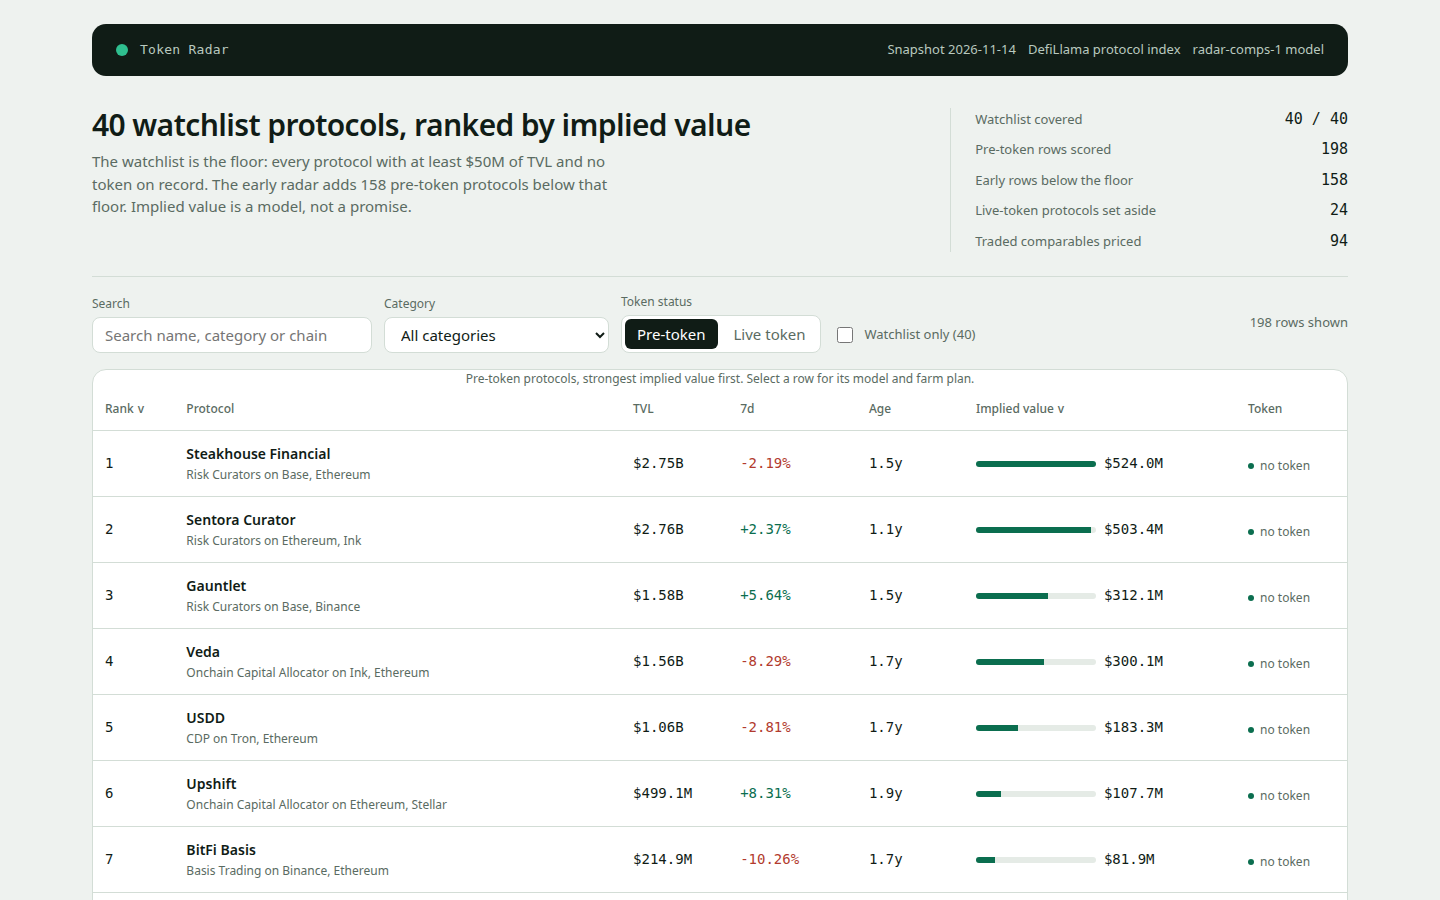
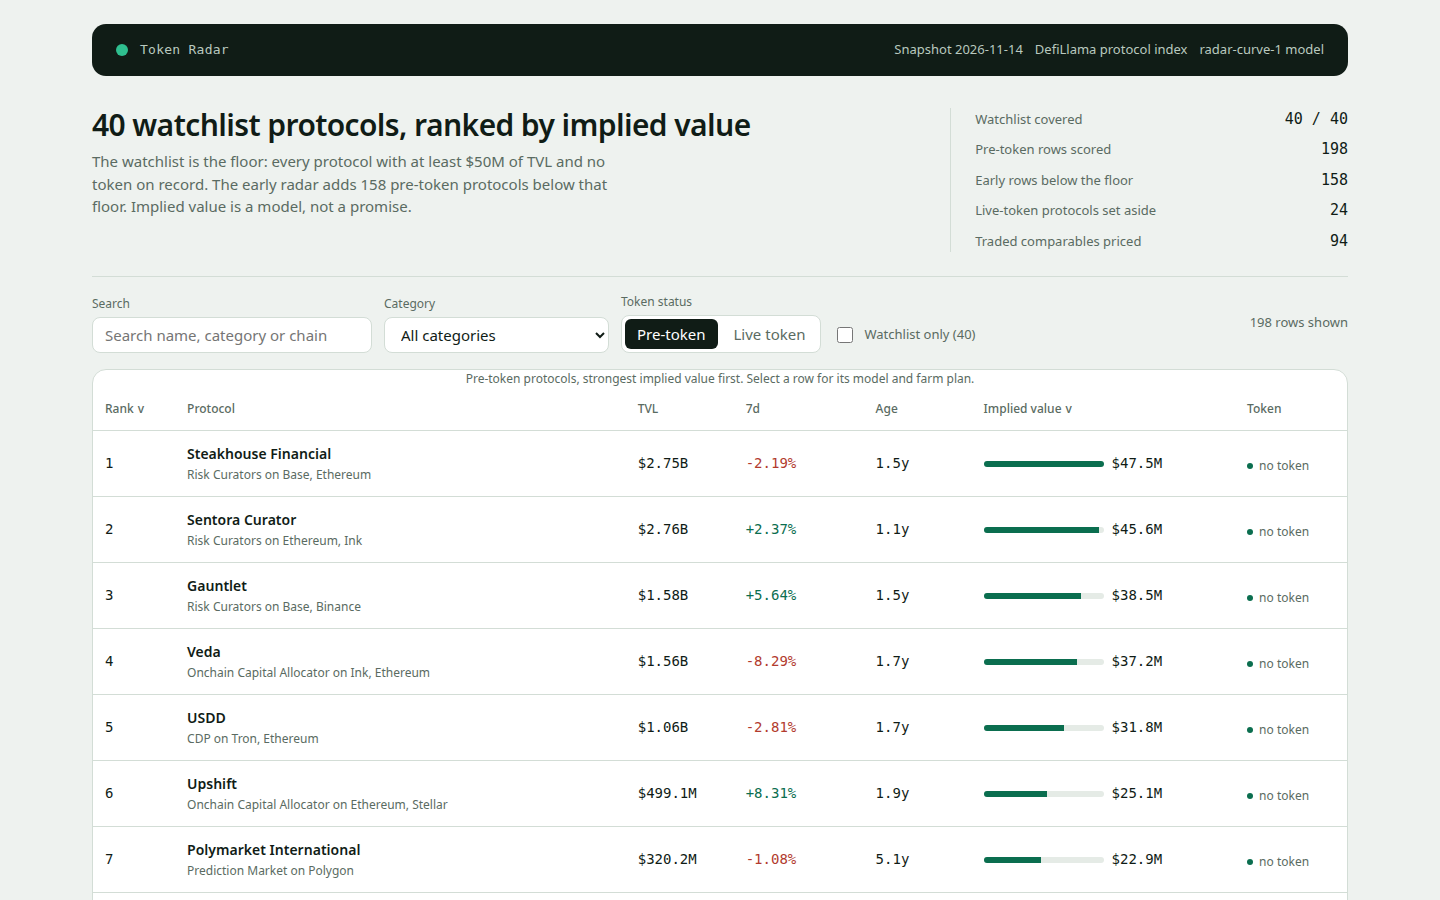
Model variant C: fitted size curve (radar-curve-1), tested blind

diff --git a/lib/model.ts b/lib/model.ts
@@ -6,19 +6,26 @@
 // snapshot's live-token protocols are kept apart and shown as the market's own values, never mixed
 // into the ranked board.
 //
-// Implied value is priced off the snapshot's own traded protocols, not a magic multiple. For each
-// category, the comparables are the protocols that already trade (a market cap on record) and their
-// median market-cap-to-TVL ratio is the category's price. A thin category (fewer than three traded
-// peers) cannot move the ratio on its own: it is shrunk toward the market-wide median, and a
-// category with no traded peers at all uses the market median outright. Growth and age then adjust
+// Implied value is priced off the snapshot's own traded protocols, not a magic multiple and not a
+// category median. The traded protocols are fitted with one size curve, an ordinary least-squares
+// line of log market cap on log TVL, after Tukey-cleaning the log market-cap-to-TVL ratios (1.5 x
+// IQR fences): a dollar of TVL is worth less at a ten-billion-dollar protocol than at a
+// hundred-million one, and a single median per category hides that. Growth and age then adjust
 // the price, exactly as the snapshot states them:
 //
-//   ratio(category) = n >= 3 ? w * median(category) + (1 - w) * GLOBAL_MEDIAN : GLOBAL_MEDIAN
-//                     w = n / (n + 5)
+//   log(mcap) = a + b x log(tvl)     (fitted on the cleaned traded peers; this snapshot: a, b and
+//                                     the peer count are in the comparables table the dashboard prints)
+//   ratio(tvl) = exp(a) x tvl^(b - 1)
 //   growth    = clamp(change_7d, -60, 120) per cent
 //   growthMult = 1 + (growth / 100) x GROWTH_WEIGHT
 //   maturity  = 0.6 + min(age_days, 1095) / 1095 x 0.4   (age_days unknown: 365)
-//   implied   = max(1, round(tvl_usd x ratio(category) x growthMult x maturity))
+//   implied   = max(1, round(tvl_usd x ratio(tvl_usd) x growthMult x maturity))
+//
+// The curve is tested blind before it prices anything: leave-one-out over the traded peers, each
+// protocol predicted from a fit that never saw it, against the shrunk category median the earlier
+// model used. The dashboard prints both median errors and how often the curve wins, so the choice
+// of the curve is a measured one, not a preference. Category medians are still computed and shown
+// for reference, and they are what the blind test compares against.
 //
 // No protocol name is ever special-cased: the same function scores every row, and the comparables
 // table the dashboard prints is the same table this file computes.
@@ -72,7 +79,7 @@ export const MODEL: ModelConstants = {
 };
 
 /** The model's version label: the dashboard names it and the rules quote it. */
-export const MODEL_VERSION = 'radar-comps-1';
+export const MODEL_VERSION = 'radar-curve-1';
 
 /** How many live-token protocols the Live token view carries, by market cap. */
 export const LIVE_ROWS = 24;
@@ -105,11 +112,13 @@ export interface CategoryComps {
  * A protocol's launch value is not guessed from its name or its rank in a list. It is priced
  * the way a market prices a new listing: by looking at what comparable listings already trade
  * for. Every protocol that records a token, a market cap and a TVL contributes one ratio,
- * market cap divided by TVL, and the median of those ratios is the price the market puts on
- * a dollar of TVL in that category. A category with three or more traded peers prices itself
- * off its own median; a thinner category is pulled toward the market-wide median, because a
+ * market cap divided by TVL, and the fitted size curve (see fitSizeCurve) turns those traded
+ * values into a price for a dollar of TVL at any size. The category medians below are the
+ * reference the blind test compares the curve against: a category with three or more traded
+ * peers prices itself off its own median, shrunk toward the market-wide median, because a
  * median drawn from one or two names is mostly noise; a category with no traded peers at all
  * borrows the market median outright, and says so in the ratio_source the detail view shows.
+ * The board itself prices off the curve, not these medians: the blind test (loo) is why.
  *
  * Two multipliers then adjust the price. Growth multiplies by half the protocol's 7-day
  * change, clamped to -60%..+120%, so a protocol that grew 20% in a week prices 10% higher
@@ -127,6 +136,25 @@ export interface Comparables {
   global_median: number;
   n: number;
   categories: CategoryComps[];
+  curve: SizeCurve;
+  loo: LooValidation;
+}
+
+/** The fitted size curve: log(mcap) = intercept + slope x log(tvl), on the cleaned peers. */
+export interface SizeCurve {
+  intercept: number;
+  slope: number;
+  kept: number;
+  dropped: number;
+  r2: number;
+}
+
+/** The blind test: leave-one-out over the traded peers, curve against the median model. */
+export interface LooValidation {
+  n: number;
+  curve_median: number;
+  median_median: number;
+  curve_wins: number;
 }
 
 /** The median of a sorted list of numbers, or null when the list is empty. */
@@ -144,22 +172,15 @@ function medianOf(sorted: number[]): number | null {
  * and is left out rather than dragging every median down.
  */
 export function buildComparables(snapshot: Snapshot): Comparables {
-  const peers = snapshot.protocols.filter(
-    (p) =>
-      !isPreToken(p) &&
-      p.mcap_usd !== null &&
-      p.mcap_usd > 0 &&
-      p.tvl_usd > 0 &&
-      (p.category === null || !EXCLUDED_CATEGORIES.has(p.category)),
-  );
-  const ratios = peers.map((p) => p.mcap_usd! / p.tvl_usd).sort((a, b) => a - b);
+  const peers = comparablePeers(snapshot);
+  const ratios = peers.map((p) => p.mcap_usd / p.tvl_usd).sort((a, b) => a - b);
   const globalMedian = medianOf(ratios) ?? 0.25;
   const byCategory = new Map<string, number[]>();
   for (const p of peers) {
     if (p.category === null) continue;
     const list = byCategory.get(p.category);
-    if (list) list.push(p.mcap_usd! / p.tvl_usd);
-    else byCategory.set(p.category, [p.mcap_usd! / p.tvl_usd]);
+    if (list) list.push(p.mcap_usd / p.tvl_usd);
+    else byCategory.set(p.category, [p.mcap_usd / p.tvl_usd]);
   }
   const categories: CategoryComps[] = [...byCategory.entries()]
     .map(([category, list]) => {
@@ -173,7 +194,102 @@ export function buildComparables(snapshot: Snapshot): Comparables {
       return { category, n, median: med, weight: w, shrunk: w * med + (1 - w) * globalMedian, source: 'category' as const };
     })
     .sort((a, b) => b.n - a.n || (a.category < b.category ? -1 : a.category > b.category ? 1 : 0));
-  return { global_median: globalMedian, n: peers.length, categories };
+  return { global_median: globalMedian, n: peers.length, categories, curve: fitSizeCurve(peers), loo: looValidation(peers) };
+}
+
+/** One traded peer: a protocol with a token, a market cap and a TVL, in a ranked category. */
+interface Peer {
+  slug: string;
+  category: string | null;
+  tvl_usd: number;
+  mcap_usd: number;
+}
+
+/** The snapshot's traded peers: the comparables every pricing in this file is fitted on. */
+function comparablePeers(snapshot: Snapshot): Peer[] {
+  return snapshot.protocols
+    .filter(
+      (p) =>
+        !isPreToken(p) &&
+        p.mcap_usd !== null &&
+        p.mcap_usd > 0 &&
+        p.tvl_usd > 0 &&
+        (p.category === null || !EXCLUDED_CATEGORIES.has(p.category)),
+    )
+    .map((p) => ({ slug: p.slug, category: p.category, tvl_usd: p.tvl_usd, mcap_usd: p.mcap_usd! }));
+}
+
+/**
+ * The fitted size curve: Tukey-clean the peers' log market-cap-to-TVL ratios (1.5 x IQR
+ * fences), then ordinary least squares of log market cap on log TVL over what survives.
+ * A slope below 1 means a dollar of TVL is worth less at a larger protocol, which is what
+ * the traded market shows; the curve is the price of a dollar of TVL at a given size.
+ */
+export function fitSizeCurve(peers: Peer[]): SizeCurve {
+  const logs = peers.map((p) => Math.log(p.mcap_usd / p.tvl_usd)).sort((a, b) => a - b);
+  const q1 = logs[Math.floor(logs.length * 0.25)]!;
+  const q3 = logs[Math.floor(logs.length * 0.75)]!;
+  const iqr = q3 - q1;
+  const lo = q1 - 1.5 * iqr;
+  const hi = q3 + 1.5 * iqr;
+  const kept = peers.filter((p) => {
+    const l = Math.log(p.mcap_usd / p.tvl_usd);
+    return l >= lo && l <= hi;
+  });
+  const xs = kept.map((p) => Math.log(p.tvl_usd));
+  const ys = kept.map((p) => Math.log(p.mcap_usd));
+  const n = kept.length;
+  const mx = xs.reduce((s, v) => s + v, 0) / n;
+  const my = ys.reduce((s, v) => s + v, 0) / n;
+  let sxx = 0, sxy = 0, syy = 0;
+  for (let i = 0; i < n; i++) {
+    const dx = xs[i]! - mx, dy = ys[i]! - my;
+    sxx += dx * dx; sxy += dx * dy; syy += dy * dy;
+  }
+  const slope = sxy / sxx;
+  const intercept = my - slope * mx;
+  const r2 = (sxy * sxy) / (sxx * syy);
+  return { intercept, slope, kept: n, dropped: peers.length - n, r2 };
+}
+
+/** The market-cap-to-TVL ratio the size curve gives a protocol of this TVL. */
+export function curveRatio(tvlUsd: number, curve: SizeCurve): number {
+  return Math.exp(curve.intercept) * Math.pow(tvlUsd, curve.slope - 1);
+}
+
+/** The shrunk category median ratio for a category, from a peer pool (the old model's price). */
+function medianRatioFor(category: string | null, pool: Peer[]): number {
+  const ratios = pool.map((p) => p.mcap_usd / p.tvl_usd).sort((a, b) => a - b);
+  const global = medianOf(ratios) ?? 0.25;
+  if (category === null) return global;
+  const cat = pool.filter((p) => p.category === category).map((p) => p.mcap_usd / p.tvl_usd).sort((a, b) => a - b);
+  if (cat.length < MODEL.min_peers) return global;
+  const med = medianOf(cat)!;
+  const w = cat.length / (cat.length + MODEL.shrink_k);
+  return w * med + (1 - w) * global;
+}
+
+/**
+ * The blind test: leave one traded peer out, fit the curve and the median model without it,
+ * predict the held-out protocol's market cap from its TVL, and score |log(pred/actual)|.
+ * The curve wins when its median error is the smaller one; the dashboard prints both.
+ */
+function looValidation(peers: Peer[]): LooValidation {
+  const curveErrs: number[] = [];
+  const medianErrs: number[] = [];
+  let wins = 0;
+  for (const p of peers) {
+    const pool = peers.filter((q) => q.slug !== p.slug);
+    const curve = fitSizeCurve(pool);
+    const eCurve = Math.abs(Math.log((p.tvl_usd * curveRatio(p.tvl_usd, curve)) / p.mcap_usd));
+    const eMedian = Math.abs(Math.log((p.tvl_usd * medianRatioFor(p.category, pool)) / p.mcap_usd));
+    curveErrs.push(eCurve);
+    medianErrs.push(eMedian);
+    if (eCurve < eMedian) wins++;
+  }
+  const curveMedian = medianOf([...curveErrs].sort((a, b) => a - b)) ?? 0;
+  const medianMedian = medianOf([...medianErrs].sort((a, b) => a - b)) ?? 0;
+  return { n: peers.length, curve_median: curveMedian, median_median: medianMedian, curve_wins: wins };
 }
 
 /** The ratio one category's protocols are priced at, from the comparables table. */
@@ -212,27 +328,30 @@ export function impliedValue(
   categoryMedian: number | null;
   categoryN: number;
   shrinkWeight: number;
-  ratioSource: 'category' | 'global';
+  ratioSource: 'curve';
   growthPct: number;
   growthMult: number;
   maturityMult: number;
   age: number | null;
 } {
   const age = ageDays(asOf, protocol.listed_at);
+  // The board prices off the fitted size curve; the category median is kept as the reference
+  // the blind test compares against, not as the price.
   const priced = ratioFor(protocol.category, comps);
+  const ratio = curveRatio(protocol.tvl_usd, comps.curve);
   const rawGrowth = finite(protocol.change_7d, 0);
   const growthPct = Math.min(model.growth_cap, Math.max(model.growth_floor, rawGrowth));
   const growthMult = 1 + (growthPct / 100) * model.growth_weight;
   const ageForModel = age ?? model.unknown_age_days;
   const maturityMult = model.maturity_floor + (Math.min(Math.max(ageForModel, 0), model.maturity_days) / model.maturity_days) * model.maturity_range;
-  const implied = Math.max(1, Math.round(protocol.tvl_usd * priced.ratio * growthMult * maturityMult));
+  const implied = Math.max(1, Math.round(protocol.tvl_usd * ratio * growthMult * maturityMult));
   return {
     implied,
-    ratio: priced.ratio,
+    ratio,
     categoryMedian: priced.median,
     categoryN: priced.n,
     shrinkWeight: priced.weight,
-    ratioSource: priced.source,
+    ratioSource: 'curve',
     growthPct,
     growthMult,
     maturityMult,
@@ -286,7 +405,7 @@ export interface BoardRow {
   implied_value_usd: number;
   model: {
     ratio_used: number;
-    ratio_source: 'category' | 'global';
+    ratio_source: 'category' | 'global' | 'curve';
     category_median: number | null;
     category_peers: number;
     shrink_weight: number;
@@ -313,7 +432,7 @@ export interface RadarRow {
   age_days: number | null;
   implied_value_usd: number;
   ratio_used: number;
-  ratio_source: 'category' | 'global';
+  ratio_source: 'category' | 'global' | 'curve';
   category_median: number | null;
   category_peers: number;
   shrink_weight: number;

diff --git a/dashboard/app.js b/dashboard/app.js
@@ -2,8 +2,8 @@
 // renders the ranked board, a filterable table, a per-protocol detail drawer with the model's own
 // inputs and the protocol's farm plan. No network: every byte it shows is in data.js.
 //
-// The value model is comparables-priced: each row carries the ratio it was priced at (its
-// category's shrunk median market-cap-to-TVL, or the market median when the category is thin),
+// The value model is a fitted size curve: each row carries the ratio the curve gives its TVL
+// (log mcap = a + b x log TVL over the snapshot's cleaned traded protocols, tested blind),
 // and the page recomputes the row from those figures and checks the number board.json carries.
 (function () {
   'use strict';
@@ -352,15 +352,18 @@
       );
     });
     var thin = comps.categories.filter(function (c) { return c.source === 'global'; }).length;
+    var curve = comps.curve;
+    var loo = comps.loo;
     return el('section', { class: 'panel model' },
       el('h2', { text: 'How implied value is computed' }),
       el('p', { class: 'sub', text: 'Every row is priced off the snapshot\u2019s own traded protocols. No protocol name is special-cased, and no row is hand-picked.' }),
       el('div', { class: 'formula' },
-        'implied = round( tvl_usd x ratio(category) x (1 + clamp(change_7d, ' + m.growth_floor + ', ' + m.growth_cap + ') / 100 x ' + m.growth_weight + ') x (' + m.maturity_floor + ' + min(age_days, ' + m.maturity_days + ') / ' + m.maturity_days + ' x ' + m.maturity_range + ') )'
+        'implied = round( tvl_usd x ratio(tvl_usd) x (1 + clamp(change_7d, ' + m.growth_floor + ', ' + m.growth_cap + ') / 100 x ' + m.growth_weight + ') x (' + m.maturity_floor + ' + min(age_days, ' + m.maturity_days + ') / ' + m.maturity_days + ' x ' + m.maturity_range + ') )'
       ),
-      el('p', { class: 'sub', text: 'ratio(category) is the median market-cap-to-TVL of the ' + comps.n + ' traded protocols in that category, shrunk toward the market median ' + fmtRatio(comps.global_median) + ' with weight n / (n + ' + m.shrink_k + '). A category with fewer than ' + m.min_peers + ' traded peers uses the market median outright.' }),
+      el('p', { class: 'sub', text: 'ratio(tvl_usd) comes from one fitted size curve: log(mcap) = ' + curve.intercept.toFixed(2) + ' + ' + curve.slope.toFixed(2) + ' x log(tvl), fitted on ' + curve.kept + ' traded protocols after dropping ' + curve.dropped + ' outlier' + (curve.dropped === 1 ? '' : 's') + ' (Tukey 1.5 x IQR on log mcap/TVL). A dollar of TVL is worth less at a larger protocol: the curve gives ' + fmtRatio(Math.exp(curve.intercept) * Math.pow(1e8, curve.slope - 1)) + ' at $100M of TVL and ' + fmtRatio(Math.exp(curve.intercept) * Math.pow(1e10, curve.slope - 1)) + ' at $10B.' }),
+      el('p', { class: 'sub', text: 'Tested blind: leave one traded protocol out, fit the curve without it, and predict its market cap from its TVL. Over all ' + loo.n + ' traded protocols the curve\u2019s median error is ' + loo.curve_median.toFixed(2) + ' log points, against ' + loo.median_median.toFixed(2) + ' for the category-median model it replaces, and the curve wins on ' + loo.curve_wins + ' of ' + loo.n + '. The choice of the curve is measured, not asserted.' }),
       el('table', { class: 'comps' },
-        el('caption', { class: 'sub', text: 'Comparables: the traded protocols each category is priced off. Thin categories use the market median and are named, not hidden.' }),
+        el('caption', { class: 'sub', text: 'Comparables by category, for reference: the board prices off the fitted curve above, not these medians. Each row shows what the old median model would have used.' }),
         el('thead', null, el('tr', null,
           el('th', { scope: 'col', text: 'Category' }),
           el('th', { scope: 'col', text: 'Peers' }),
@@ -370,7 +373,7 @@
         )),
         el('tbody', null, compRows)
       ),
-      el('p', { class: 'sub', text: thin + ' categories have too few traded peers and use the market median ' + fmtRatio(comps.global_median) + ' \u2014 including Risk Curators and Onchain Capital Allocator, the board\u2019s two largest categories. That is the model knowing its limits, not hiding them.' }),
+      el('p', { class: 'sub', text: 'The curve prices every row, thin category or not: no row falls back to the market median ' + fmtRatio(comps.global_median) + ' because its category has too few peers. The ' + thin + ' thin categories above are shown for reference, not used for pricing.' }),
       el('p', { class: 'sub', text: 'TVL and seven-day growth come from the snapshot. Age is the time since the protocol was first listed, the best record of how long it has run with no token; an unlisted age uses ' + m.unknown_age_days + ' days. The live-token protocols are set aside with their market caps shown.' })
     );
   }
@@ -385,7 +388,10 @@
     writeHash();
     dialog.textContent = '';
     var steps = farmSteps(row);
-    var ratioNote = row.ratio_source === 'category'
+    var curve = DATA.comparables.curve;
+    var ratioNote = row.ratio_source === 'curve'
+      ? 'Priced off the fitted size curve (log mcap = ' + curve.intercept.toFixed(2) + ' + ' + curve.slope.toFixed(2) + ' x log TVL, fitted on ' + curve.kept + ' cleaned traded protocols): at this TVL the curve gives ' + fmtRatio(row.ratio_used) + '. The category median ' + fmtRatio(row.category_median) + ' is shown for reference, not used for pricing.'
+      : row.ratio_source === 'category'
       ? 'Priced off ' + row.category_peers + ' traded ' + (row.category || 'category') + ' protocols (median ' + fmtRatio(row.category_median) + ', weight ' + row.shrink_weight.toFixed(2) + ' toward the market median).'
       : 'Priced off the market median ' + fmtRatio(row.global_median) + ': ' + (row.category || 'this category') + ' has ' + row.category_peers + ' traded peer' + (row.category_peers === 1 ? '' : 's') + ', too few to price on its own.';
     dialog.appendChild(el('div', { class: 'detail-head' },

diff --git a/README.md b/README.md
@@ -5,17 +5,22 @@ ranked by implied launch value, with a farm plan for each.
 
 ## The model
 
-Implied value is priced off the snapshot's own traded protocols. For each category, the
-comparables are the protocols that already trade, and their median market-cap-to-TVL ratio
-is the category's price. A thin category (fewer than three traded peers) is shrunk toward
-the market-wide median; a category with no traded peers uses the market median outright.
-Growth (7-day) and age (how long the protocol has run with no token) adjust the price.
+Implied value is priced off the snapshot's own traded protocols, fitted with one size
+curve: log(mcap) = a + b x log(tvl), ordinary least squares over the traded protocols
+after Tukey-cleaning the log mcap/TVL ratios (1.5 x IQR fences). A dollar of TVL is worth
+less at a larger protocol, and a single median per category hides that. Growth (7-day)
+and age (how long the protocol has run with no token) adjust the price.
 
 ```
-ratio(category) = n >= 3 ? w * median(category) + (1 - w) * GLOBAL_MEDIAN : GLOBAL_MEDIAN
-                  w = n / (n + 5)
-implied = round(tvl_usd x ratio(category) x growth x maturity)
+log(mcap) = a + b x log(tvl)     (fitted on the cleaned traded peers)
+ratio(tvl) = exp(a) x tvl^(b - 1)
+implied = round(tvl_usd x ratio(tvl_usd) x growth x maturity)
 ```
+
+Tested blind before it prices anything: leave-one-out over the 94 traded protocols,
+each predicted from a fit that never saw it. The curve's median error is 1.20 log
+points, against 1.63 for the shrunk category median it replaces, winning on 63 of 94.
+Category medians are still computed and shown in the dashboard for reference.
 
 No protocol name is special-cased. The comparables table is printed in the dashboard.
 
